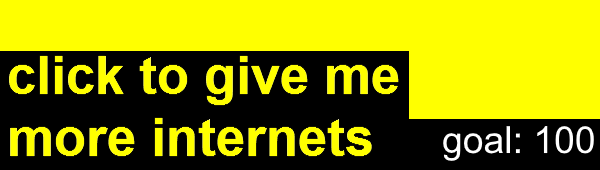
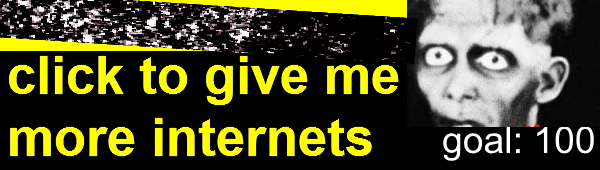
styling

diff --git a/index.html b/index.html
@@ -11,6 +11,13 @@
     <meta content="#FFFF00" data-react-helmet="true" name="theme-color" />
 
 	<link rel="stylesheet" href="stylesheet.css">
+  <style>
+    body {
+      background-image: url('media/punk1.jpg');
+      background-position: top;
+      background-size:100%;
+    }
+</style>
 
     <!-- Global site tag (gtag.js) - Google Analytics -->
 <script async src="https://www.googletagmanager.com/gtag/js?id=G-V4V5W361BG"></script>
@@ -27,11 +34,11 @@
 MOST OF THESE PAGES ARE INCOMPLETE. THANK YOU FOR UNDERSTANDING.</p></h1>
 <p><a href="noise.html"><img src="media/noisebanner.png" width="300"></a></p>
 <p><a href="cyberiacafe.html"><img src="cyberiacafe/lain/newlink2.gif" width="300"></a></p>
-<p><a href="image gallery.html">image gallery</a></p>
-<p><a href="jsproj.html">js projects</a></p>
-<p><a href="scorecards.html">baseball scorecards</a></p>
-<p><a href="archive.html">archive</a></p>
-<label for="dropdown">pick one [important]:</label>
+<p class="label"><a href="image gallery.html">image gallery &nbsp</a></p>
+<p class="label"><a href="jsproj.html">js projects &nbsp</a></p>
+<p class="label"><a href="scorecards.html">baseball scorecards &nbsp</a></p>
+<p class="label"><a href="archive.html">archive &nbsp</a></p>
+<label class="label" for="dropdown">pick one [important]:</label>
 <select> name="dropdown" id="dropdown"
 <option value"6" selected></option>
 <option value"1">oito</option>

diff --git a/stylesheet.css b/stylesheet.css
@@ -48,3 +48,7 @@ footer {
 	color: #C61755;
 	font-family: consolas;
 }
+.label {
+	background-color:black;
+	max-width:fit-content;
+}
